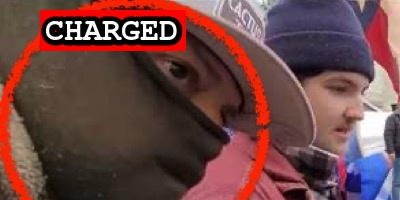
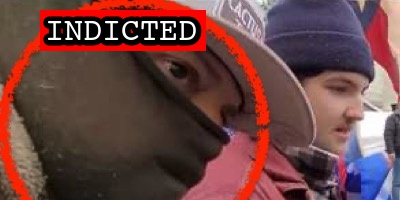
Latest import

Changed region(s): [[0.09, 0.03, 0.54, 0.27]]

diff --git a/commands/suspect-import.ts b/commands/suspect-import.ts
@@ -569,16 +569,6 @@ const linkType = (description: string, lastName?: string) => {
   }
 };
 
-interface suspectData {
-  nameSet: Set<string>;
-  firstName: string;
-  lastName: string;
-  dateString: string;
-  links: string;
-  caseNumber?: string;
-  residence?: string;
-  age?: string;
-}
 const addData = (suspectData) => {
   const { firstName, lastName, nameSet, residence, age, caseNumber, links } = suspectData;
   const nameToCheck = dasherizeName(firstName, lastName);

diff --git a/docs/_suspects/grady-owens.md b/docs/_suspects/grady-owens.md
@@ -33,21 +33,20 @@ layout: suspect
 published: true
 caseNumber: 1:21-cr-286
 videos:
-  - title: Defense Exhibit A.mp4 (0:51:59)
-    url: https://propublica-data-j6cases-videos.s3.us-east-1.amazonaws.com/51d50c60ce28013960702cde48001122.mp4
-  - title: Government Exhibit 3 - Rotunda doors.mp4 (0:02:56)
-    url: https://propublica-data-j6cases-videos.s3.us-east-1.amazonaws.com/df9b1190ce29013960702cde48001122.mp4
-  - title: Government Exhibit 2.mp4 (0:05:17)
-    url: https://propublica-data-j6cases-videos.s3.us-east-1.amazonaws.com/0b75f050ce2a013960702cde48001122.mp4
-  - title: Government Exhibit 4 - Rotunda doors.mp4 (0:02:37)
-    url: https://propublica-data-j6cases-videos.s3.us-east-1.amazonaws.com/f741d9a0ce29013960702cde48001122.mp4
+- title: Defense Exhibit A.mp4 (0:51:59)
+  url: https://propublica-data-j6cases-videos.s3.us-east-1.amazonaws.com/51d50c60ce28013960702cde48001122.mp4
+- title: Government Exhibit 3 - Rotunda doors.mp4 (0:02:56)
+  url: https://propublica-data-j6cases-videos.s3.us-east-1.amazonaws.com/df9b1190ce29013960702cde48001122.mp4
+- title: Government Exhibit 2.mp4 (0:05:17)
+  url: https://propublica-data-j6cases-videos.s3.us-east-1.amazonaws.com/0b75f050ce2a013960702cde48001122.mp4
+- title: Government Exhibit 4 - Rotunda doors.mp4 (0:02:37)
+  url: https://propublica-data-j6cases-videos.s3.us-east-1.amazonaws.com/f741d9a0ce29013960702cde48001122.mp4
 charges:
 sentence:
 ---
-
 - [News Report](https://www.orlandosentinel.com/news/crime/os-ne-capitol-riot-grady-owens-denied-release-20210402-6c6ehq5imva3dhaud6hujkjgoy-story.html)
 - [Complaint](https://www.justice.gov/usao-dc/case-multi-defendant/file/1382531/download)
 - [Statement of Facts](https://www.justice.gov/usao-dc/case-multi-defendant/file/1382536/download)
-- [Indictment](https://www.justice.gov/usao-dc/case-multi-defendant/file/1384581/download)
+- [Indictment](https://www.justice.gov/usao-dc/case-multi-defendant/file/1461456/download)
 - [Bodycam Evidence (Video)](https://twitter.com/ryanjreilly/status/1407812891730976783)
 - [Detention Order](https://extremism.gwu.edu/sites/g/files/zaxdzs2191/f/Grady%20Owens%20Memorandum%20Opinion%20Granting%20Defense%20Motion%20for%20Pretrial%20Release.pdf)

diff --git a/docs/_suspects/verden-nalley.md b/docs/_suspects/verden-nalley.md
@@ -34,14 +34,15 @@ published: true
 caseNumber: 1:21-cr-116
 videos:
 charges:
-  - code: 18 USC § 1752(a)(1)
-    title: Entering a restricted building or grounds
-    url: https://www.law.cornell.edu/uscode/text/18/1752
-    felony: false
+- code: 18 USC § 1752(a)(1)
+  title: Entering a restricted building or grounds
+  url: https://www.law.cornell.edu/uscode/text/18/1752
+  felony: false
 sentence:
 ---
-
 - [News Report](https://www.wfmynews2.com/article/news/crime/man-from-buford-arrested-in-connection-to-capitol-riots/85-df3e85f9-6889-46fd-bd92-bd558eb8f5b7)
 - [Indictment](https://www.justice.gov/usao-dc/case-multi-defendant/file/1372146/download)
 - [Defense Motion to Dismiss or Exclude Evidence](https://extremism.gwu.edu/sites/g/files/zaxdzs2191/f/Verden%20Andrew%20Nalley%20Defense%20Motion%20to%20Suppress%20Statements.pdf)
-- [Plea Agreement](https://storage.courtlistener.com/recap/gov.uscourts.dcd.227622/gov.uscourts.dcd.227622.77.0.pdf)
+- [Plea Agreement](https://www.justice.gov/usao-dc/case-multi-defendant/file/1461521/download)
+- [Statement of Facts](https://www.justice.gov/usao-dc/case-multi-defendant/file/1461526/download)
+- [Information](https://www.justice.gov/usao-dc/case-multi-defendant/file/1461531/download)

diff --git a/docs/_suspects/david-moerschel.md b/docs/_suspects/david-moerschel.md
@@ -31,13 +31,12 @@ description: Click for latest case details. Suspects innocent until proven guilt
 author: seditiontrack
 layout: suspect
 published: true
-caseNumber:
+caseNumber: 1:21-cr-28
 videos:
 charges:
 sentence:
 ---
-
 - [News Report](https://www.washingtonpost.com/local/legal-issues/oathkeeper-arrested-david-moerschel/2021/07/02/0f54d5aa-db5d-11eb-9bbb-37c30dcf9363_story.html)
 - [Statement of Facts](https://www.justice.gov/usao-dc/case-multi-defendant/file/1408901/download)
-- [Indictment](https://extremism.gwu.edu/sites/g/files/zaxdzs2191/f/Caldwell%20et%20al%20Fifth%20Superseding%20Indictment.pdf)
+- [Indictment](https://www.justice.gov/usao-dc/case-multi-defendant/file/1461706/download)
 - [DOJ Press Release (Indictment)](https://www.justice.gov/usao-dc/pr/fifth-superseding-indictment-unsealed-oath-keeper-conspiracy-case-related-jan-6-capitol)

diff --git a/docs/_suspects/paul-seymour-jr.md b/docs/_suspects/paul-seymour-jr.md
@@ -1,0 +1,41 @@
+---
+name: Paul Seymour Jr
+lastName: Seymour Jr
+hashtag:
+aka:
+residence: Ohio
+status: Charged
+date: 2021-12-03
+charged: 2021-12-03
+indicted:
+convicted:
+sentenced:
+dismissed:
+deceased:
+plea_hearing:
+sentencing:
+age:
+occupation:
+affiliations:
+jurisdiction: Federal
+image: /images/preview/paul-seymour-jr.jpg
+suspect: paul-seymour-jr.jpg
+booking:
+courtroom:
+courthouse:
+raid:
+perpwalk:
+quote:
+title: Paul Seymour charged on December 3, 2021
+description: Click for latest case details. Suspects innocent until proven guilty.
+author: seditiontrack
+layout: suspect
+published: false
+caseNumber:
+videos:
+charges:
+sentence:
+---
+
+- [News Report]()
+- [Complaint](https://extremism.gwu.edu/sites/g/files/zaxdzs2191/f/Paul%20Lee%20Seymour%20Sr.%20and%20Jr.%20Criminal%20Complaint.pdf)

diff --git a/docs/_suspects/paul-seymour-sr.md b/docs/_suspects/paul-seymour-sr.md
@@ -1,0 +1,41 @@
+---
+name: Paul Seymour Sr
+lastName: Seymour Sr
+hashtag:
+aka:
+residence: Ohio
+status: Charged
+date: 2021-12-03
+charged: 2021-12-03
+indicted:
+convicted:
+sentenced:
+dismissed:
+deceased:
+plea_hearing:
+sentencing:
+age:
+occupation:
+affiliations:
+jurisdiction: Federal
+image: /images/preview/paul-seymour-sr.jpg
+suspect: paul-seymour-sr.jpg
+booking:
+courtroom:
+courthouse:
+raid:
+perpwalk:
+quote:
+title: Paul Seymour charged on December 3, 2021
+description: Click for latest case details. Suspects innocent until proven guilty.
+author: seditiontrack
+layout: suspect
+published: false
+caseNumber:
+videos:
+charges:
+sentence:
+---
+
+- [News Report]()
+- [Complaint](https://extremism.gwu.edu/sites/g/files/zaxdzs2191/f/Paul%20Lee%20Seymour%20Sr.%20and%20Jr.%20Criminal%20Complaint.pdf)

diff --git a/docs/_suspects/thomas-uberto.md b/docs/_suspects/thomas-uberto.md
@@ -1,0 +1,41 @@
+---
+name: Thomas Uberto
+lastName: Uberto
+hashtag:
+aka:
+residence: New York
+status: Charged
+date: 2022-01-04
+charged: 2022-01-04
+indicted:
+convicted:
+sentenced:
+dismissed:
+deceased:
+plea_hearing:
+sentencing:
+age:
+occupation:
+affiliations:
+jurisdiction: Federal
+image: /images/preview/thomas-uberto.jpg
+suspect: thomas-uberto.jpg
+booking:
+courtroom:
+courthouse:
+raid:
+perpwalk:
+quote:
+title: Thomas Uberto charged on January 4, 2022
+description: Click for latest case details. Suspects innocent until proven guilty.
+author: seditiontrack
+layout: suspect
+published: false
+caseNumber:
+videos:
+charges:
+sentence:
+---
+
+- [News Report]()
+- [Statement of Facts](https://extremism.gwu.edu/sites/g/files/zaxdzs2191/f/Thomas%20Uberto%20Statement%20of%20Facts.pdf)

diff --git a/docs/_suspects/jon-mott.md b/docs/_suspects/jon-mott.md
@@ -31,7 +31,7 @@ description: Click for latest case details. Suspects innocent until proven guilt
 author: seditiontrack
 layout: suspect
 published: true
-caseNumber:
+caseNumber: 1:21-cr-464
 videos:
 charges:
 sentence:
@@ -39,4 +39,4 @@ sentence:
 - [News Report](https://www.ktlo.com/2021/05/14/mott-charged-with-four-offenses-stemming-from-capitol-riot/)
 - [Complaint](https://www.justice.gov/usao-dc/case-multi-defendant/file/1394306/download)
 - [Statement of Facts](https://www.justice.gov/usao-dc/case-multi-defendant/file/1394311/download)
-- [Information](https://extremism.gwu.edu/sites/g/files/zaxdzs2191/f/Jon%20Thomas%20Mott%20Information.pdf)
+- [Information](https://www.justice.gov/usao-dc/case-multi-defendant/file/1415516/download)

diff --git a/docs/_suspects/sean-watson.md b/docs/_suspects/sean-watson.md
@@ -31,7 +31,7 @@ description: Click for latest case details. Suspects innocent until proven guilt
 author: seditiontrack
 layout: suspect
 published: true
-caseNumber:
+caseNumber: 1:21-cr-422
 videos:
 charges:
 sentence:
@@ -39,4 +39,4 @@ sentence:
 - [News Report](https://www.kwtx.com/2021/04/30/alpine-man-involved-in-january-capitol-riots-now-facing-charges/)
 - [Complaint](https://www.justice.gov/usao-dc/case-multi-defendant/file/1390656/download)
 - [Statement of Facts](https://www.justice.gov/usao-dc/case-multi-defendant/file/1390661/download)
-- [Information](https://extremism.gwu.edu/sites/g/files/zaxdzs2191/f/Sean%20Watson%20Information.pdf)
+- [Information](https://www.justice.gov/usao-dc/case-multi-defendant/file/1461566/download)

diff --git a/docs/_suspects/jason-owens.md b/docs/_suspects/jason-owens.md
@@ -4,10 +4,10 @@ lastName: Owens
 hashtag: CactusRopes
 aka:
 residence: Texas
-status: Charged
+status: Indicted
 date: 2021-04-16
 charged: 2021-04-16
-indicted:
+indicted: 2021-11-17
 convicted:
 sentenced:
 dismissed:
@@ -40,3 +40,4 @@ sentence:
 - [News Report](https://www.thedailybeast.com/jason-owens-father-of-skateboard-wielding-insurrectionist-charged-in-capitol-riots-feds-say)
 - [Complaint](https://www.justice.gov/usao-dc/case-multi-defendant/file/1388791/download)
 - [Statement of Facts](https://www.justice.gov/usao-dc/case-multi-defendant/file/1388796/download)
+- [Indictment](https://www.justice.gov/usao-dc/case-multi-defendant/file/1461456/download)

diff --git a/docs/_suspects/clayton-mullins.md b/docs/_suspects/clayton-mullins.md
@@ -36,8 +36,7 @@ videos:
 charges:
 sentence:
 ---
-
 - [News Report](https://www.wpsdlocal6.com/news/local-man-arrested-in-connection-to-capitol-riots/article_121d7218-7647-11eb-b188-03ed79745ed0.html)
 - [FBI Statement (Twitter)](https://twitter.com/FBILouisville/status/1364395746594799617?s=20)
 - [Statement of Facts](https://www.justice.gov/usao-dc/case-multi-defendant/file/1371466/download)
-- [Indictment](https://extremism.gwu.edu/sites/g/files/zaxdzs2191/f/Sabol%20et%20al%20Second%20Superseding%20Indictment.pdf)
+- [Indictment](https://www.justice.gov/usao-dc/case-multi-defendant/file/1461561/download)

diff --git a/docs/_suspects/christopher-warnagiris.md b/docs/_suspects/christopher-warnagiris.md
@@ -36,8 +36,7 @@ videos:
 charges:
 sentence:
 ---
-
 - [News Report](https://www.newsweek.com/christopher-warnagiris-active-duty-marine-based-quantico-arrested-assaulting-officer-capitol-1591329)
 - [DOJ Press Release](https://www.justice.gov/usao-dc/pr/active-duty-us-marine-corps-officer-arrested-assault-federal-law-enforcement-officer)
 - [Statement of Facts](https://www.justice.gov/opa/press-release/file/1393941/download)
-- [Indictment](https://www.justice.gov/usao-dc/case-multi-defendant/file/1415461/download)
+- [Indictment](https://www.justice.gov/usao-dc/case-multi-defendant/file/1461551/download)
